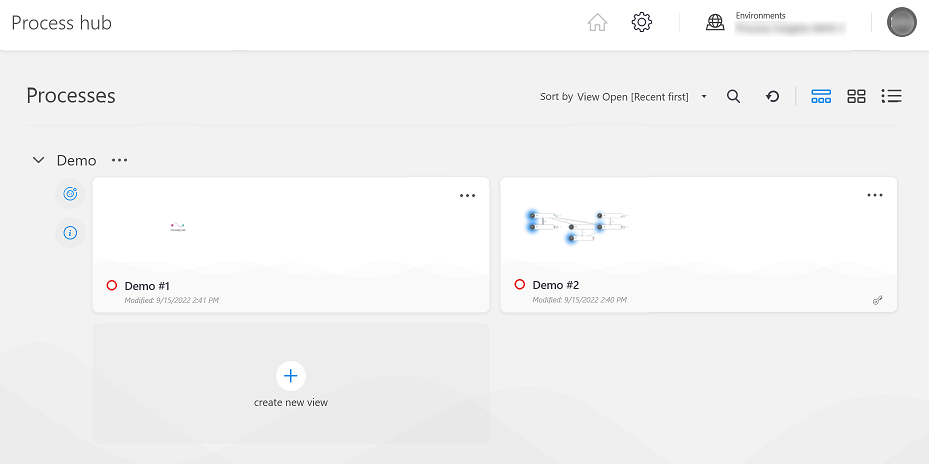
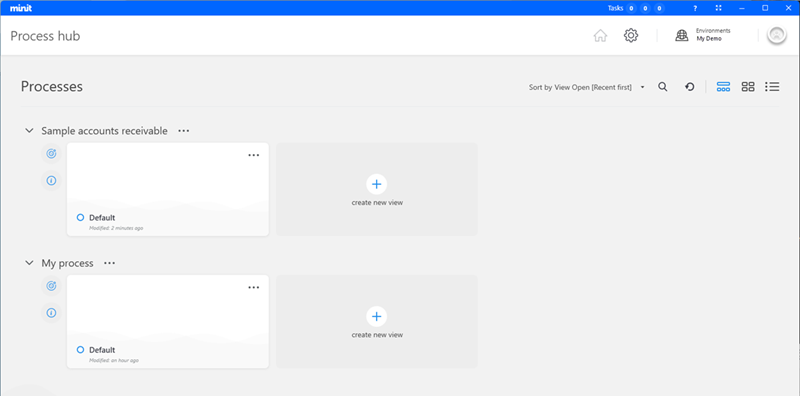
Still editing; created screenshots

diff --git a/articles/minit/case-categorization.md b/articles/minit/case-categorization.md
@@ -1,12 +1,13 @@
 ---
 title: Case categorization (preview)
-description: Learn how to define categories for cases in the Minit desktop application in process advisor.
+description: Learn how to categorize cases in the Minit desktop application for Microsoft Power Automate process advisor.
 author: nijemcevic
 ms.subservice: process-advisor
 ms.topic: conceptuaL
-ms.date: 10/15/2022
+ms.date: 10/27/2022
 ms.author: tatn
 ms.reviewer: angieandrews
+ms.custom: bap-template
 search.app:
 - Flow
 search.audienceType:
@@ -18,49 +19,94 @@ search.audienceType:
 
 [!INCLUDE[cc-beta-prerelease-disclaimer](../includes/cc-beta-prerelease-disclaimer.md)]
 
-Case categorization allows you to define which cases are **Finished**, **Running**, **Stuck**, and **Incompletely imported**. These settings can then be used in any custom metric.
-
-Definition of the case categories can be done in the **Process Context** window in the **Project hub**, using the Process context menu.
+Case categorization allows you to identify which cases are **Finished**, **Running**, **Stuck**, and **Incompletely imported**. You can then use these categories in custom metrics.
 
 Case categories are split into two groups:
+
 - Exclusive (Finished, Running, Stuck)
 - Case flags (Incompletely imported)
 
-In the Exclusive group, a case may belong to only one of the three categories: either it is Finished, Running, or Stuck.
+A case may be placed in only one of the three categories: either it's **Finished**, **Running**, or **Stuck**. The **Incompletely imported** flag can be applied to any case, regardless of its category. For instance, a case may be both **Running** and **Incompletely imported**.
 
-As for Incompletely imported, this category can be combined with any of the above-mentioned categories, for any case.
+## Initialize and create categorization rules
 
-## Initialization and setup
+Categorize cases in the **Process context** page in the Minit project hub.
 
-After initialization, all cases are categorized as **Finished**.
+1. Open the **Process context** page: Either select the icon below the process name, or select (**...**) to the right of the process name and then select **Process context**.
 
-You can set rules for categorization in a simple or advanced mode. Any rule set in simple mode will be translated into advanced mode, however, *switching from advanced mode back to simple mode will reset the settings to the default*.
+    :::image type="content" source="media/PC-overview-1.png" alt-text="Screenshot of the process hub, with the process context icon highlighted.":::
 
-In simple mode, to set finished cases, please select which activities are finishing activities. Cases that end in one of these activities are considered **Finished**.
+1. In the left side panel, select **Case categorization**.
 
-Cases that are not **Finished** are considered **Stuck** or **Running**. To distinguish between Stuck and Running, the user can define when the case is considered Stuck. In simple mode, it can be defined by setting the time difference between the last activity in the case and a set date. This can be selected either manually or by the last timestamp of any event in the dataset.
+1. Select **INITIALIZE**.
 
-Cases that are **neither Finished nor Stuck are considered Running**.
-The case is evaluated in a sequence. If it satisfies the conditions for Finished, it stops there. If not, it will check the condition for Stuck. If that is also false, it will mark the case as Running.
+1. Set rules for categorizing cases as directed in the following sections.
 
-Incompletely imported cases are independent of this sequence, and any case that **does not satisfy** the condition is marked as Incompletely imported.
+    You can set rules in simple or advanced mode. Any rule that you set in simple mode carries over to advanced mode. However, *switching from advanced mode back to simple mode resets the rules to the default*.
 
-The goal of the Incompletely imported category is to mark those cases where the export from the original database split the case in half and only included the latter part of the case.
+1. Select **Save**.
 
-:::image type="content" alt-text="Screenshot of initialization and setup." source="media/image-49.png":::
+### Categorize cases as Finished
 
-## Advanced settings
+Initially, all cases are categorized as **Finished**.
 
-For advanced settings, the logic with evaluation in the sequence is the same. Each category can be set in simple or advanced settings, irrelevant of the settings in other categories.
+Select which activities are finishing activities. Cases that end in one of these activities are considered **Finished**.
 
-## Use case categorization
+In simple mode, select an activity in the **List** tab, or use the search box to search for an activity and then select it. Or, select the **Expression** tab and use the comparison and value boxes and the **Fx** button to define an activity in terms of an expression.
 
-After defining the case categorization, each category has its own function within custom metrics, returning True or False for each case.
+:::image type="content" source="media/case-cat-finished-simple.png" alt-text="Screenshot of categorizing Finished cases in simple mode.":::
 
+In advanced mode, use the filter icons under the **Advanced mode** toggle to add, delete, or import filters. Select the link under **Cases** to specify attributes that define a finishing activity.
 
-```
-ISFINISHED()
-ISSTUCK()
-ISRUNNING()
-ISINCOMPLETEIMPORT()
-```
+:::image type="content" source="media/case-cat-finished-advanced.png" alt-text="Screenshot of categorizing Finished cases in advanced mode.":::
+
+### Categorize cases as Stuck
+
+Cases that aren't **Finished** are either **Stuck** or **Running**. To distinguish between them, you can define when the case is considered **Stuck**.
+
+1. In simple mode, select **Stuck**.
+1. Enter or select a date, or select the last event in the dataset.
+1. Enter a time value.
+
+    :::image type="content" source="media/case-cat-stuck-simple.png" alt-text="Screenshot of categorizing Stuck cases in simple mode.":::
+
+In advanced mode, use the filter icons under the **Advanced mode** toggle to add, delete, or import filters. Select the link under **Cases** to specify attributes that define a **Stuck** case.
+
+:::image type="content" source="media/case-cat-stuck-advanced.png" alt-text="Screenshot of categorizing Stuck cases in advanced mode.":::
+
+If a case isn't **Finished** and the time between the last activity in the case and the date you select exceeds the time value, the case is considered **Stuck**.
+
+### Categorize cases as Running
+
+Cases that aren't **Finished** or **Stuck** are considered **Running**.
+
+The case is evaluated in sequence. If it satisfies the conditions for **Finished**, categorization stops there. If it doesn't, the app checks the conditions for **Stuck**. If those conditions are also false, it categorizes the case as **Running**.
+
+### Categorize cases flagged as Incompletely imported
+
+Cases that don't start where they should are flagged as **Incompletely imported**. This can happen when the export from the original database split the case in half and only included the latter part of the case activities.
+
+:::image type="content" source="media/case-cat-incompletely-imported.png" alt-text="Screenshot of a case with the Incompletely imported flag.":::
+
+Select which activities are starting activities.
+
+In simple mode, select an activity in the **List** tab, or use the search box to search for an activity and then select it. Or, select the **Expression** tab and use the comparison and value boxes and the **Fx** button to define an activity in terms of an expression.
+
+In advanced mode, use the filter icons under the **Advanced mode** toggle to add, delete, or import filters. Select the link under **Cases** to specify attributes that define a starting activity.
+
+After you select one or more starting activities, the **Incompletely imported** flag should clear.
+
+:::image type="content" source="media/case-cat-incompletely-imported-clear.png" alt-text="Screenshot of a case with the Incompletely imported flag cleared after selecting a starting activity.":::
+
+## Use case categories
+
+After you categorize the case, each category has its own function in custom metrics, returning True or False for each case:
+
+- ISFINISHED()
+- ISSTUCK()
+- ISRUNNING()
+- ISINCOMPLETEIMPORT()
+
+## Next steps
+
+[Explore process views](process-explorer.md)

diff --git a/articles/minit/process-hub.md b/articles/minit/process-hub.md
@@ -1,10 +1,10 @@
 ---
 title: Process hub overview (preview)
-description: Learn how to launch the process hub, choose an environment, and understand view tiles in the Minit desktop application for Microsoft Power Automate process advisor. 
+description: Learn how to open the process hub, choose an environment, and understand view tiles in the Minit desktop application for Microsoft Power Automate process advisor. 
 author: nijemcevic
 ms.subservice: process-advisor
 ms.topic: overview
-ms.date: 10/26/2022
+ms.date: 10/27/2022
 ms.author: tatn
 ms.reviewer: angieandrews
 ms.custom: bap-template
@@ -19,15 +19,15 @@ search.audienceType:
 
 [!INCLUDE[cc-beta-prerelease-disclaimer](../includes/cc-beta-prerelease-disclaimer.md)]
 
-The process hub is Minit's home page. It's where you'll find an overview of your processes and process views. It's also where you can analyze your processes.
+The process hub is Minit's home page. It's where you'll find an overview of your processes and views. It's also where you can dig deeper into your processes by creating different views, or ways of analyzing your processes.
 
 ## Open the process hub
 
-Open the Minit desktop app and sign in with your Azure DevOps account. The **Process hub** page opens.
+Open the Minit desktop app and sign in with your work account. The **Process hub** page opens.
 
-The process hub displays each open process and any views associated with them as tiles.
+Although Minit is a desktop application, it's connected to Power Automate through your work account. The process hub lists all the processes you created in process advisor, and displays any views associated with them as tiles.
 
-:::image type="content" alt-text="Screenshot of the process hub, with two Create a new view tiles highlighted." source="media/minit-create-new-view.png":::
+:::image type="content" alt-text="Screenshot of the process hub in the Minit desktop app." source="media/image-27.png":::
 
 ## Select an environment
 
@@ -37,19 +37,36 @@ If the process hub doesn't show the processes you expect, you may need to select
 
 1. Select an environment, or search for and select an environment.
 
-   :::image type="content" alt-text="Screenshot of the environments dropdown menu." source="media/image-5.png":::
+## Organize the process hub
+
+By default, the process hub lists your processes and displays their associated views under them as tiles. You can organize your processes and views in a way that works better for you. Select one of the icons in the upper-right corner of the page.
+
+:::image type="content" alt-text="Screenshot of processes and process views." source="media/image-1.png":::
+
+Legend:
+
+1. Sort views in ascending or descending order. You can sort by name, modification date, or by the most recently opened.
+1. Search for a process or view by name.
+1. Refresh the list of processes from the process advisor. For instance, if you create a process in process advisor, select the refresh icon to update the list in the process hub.
+1. **Processes**: List processes by name, with their associated views displayed as tiles below them. Select the caret to the left of the process name to show or hide the views. This view is the default when you open Minit.
+1. **Views**: Display views as tiles, independent of their associated process.
+1. **List**: List views under their associated process in a table format. Columns display details such as status, last modification date, the person who modified it, the view's privacy status, and a menu with more actions.
 
 ## Explore view tiles
 
-A view is a representation of a single process. It stores all your settings for analyzing the process. To analyze a process from several viewpoints, create multiple views. You can work with a view by yourself or with your colleagues.
+A view represents an analysis of a single process model. It stores all your settings for analyzing the process. To analyze a process from several viewpoints, create multiple views. You can work with a view by yourself or with your colleagues.
+
+The first time you open Minit, if you haven't created any views of your processes, the process hub shows a default view for each process. The **Default** tile is blank until after the first time you select it. After you've opened a view, the tile displays a miniature version of the process map, as in the following example:
+
+:::image type="content" source="media/image-27-a.png" alt-text="Screenshot of a view tile in process hub after it's been opened.":::
 
 A view tile contains the following information:
 
 - The name of the view
 - The view's save state
 - The date and time the view was last modified
-- An indicator of whether the view is private or public
-- The number of comments in the view discussion
+- A key icon if the view is private to you only; no key indicates the view is public
+- The number of comments in the view discussion, if any
 
 A circular icon to the left of the name indicates the view's save state. The following table shows the possible states and their corresponding colors.
 
@@ -60,38 +77,31 @@ A circular icon to the left of the name indicates the view's save state. The fol
 | Orange | There are unsaved changes in the view, and the view isn't updated to the process version. |
 | Violet | The view isn't updated to the process version. |
 
-### Open or create a view
+## Manage views
 
 To open a view, select its tile. If the view isn't updated to the process version, the app displays a warning.
 
-To create a view, select the **Create new view** tile to the right of the process tile. The process opens in a default form, and the app creates a view automatically.
+To delete, rename, or change the privacy of a view, in the **Processes** or **Views** view, select (**...**) in a view tile to open a menu of actions.
 
-## Organize the process hub
+:::image type="content" source="media/image-3-b.png" alt-text="Screenshot of actions for managing a view in the process hub.":::
 
-The process hub displays tiles by default, but you can list your processes and views in a way that works better for you. Select one of the icons in the upper-right corner of the page.
+- **Make private** or **Make public**: Make a public view private or make a private view public.
+- **Rename**: Change the name of a view.
+- **Delete**: Delete a view you no longer need.
 
-:::image type="content" alt-text="Screenshot of processes and process views." source="media/image-1.png":::
+## Manage processes
 
-Legend:
-
-1. Sort the list of processes and views in ascending or descending order. The sorting criterion depends on the display form you selected.
-1. Search for a process or view by name.
-1. Reset the display to the default.
-1. **Processes**: Group processes by name, with views displayed below their associated process. Select the icon next to the process name to expand or collapse a group.
-1. **Views**: Display processes and views as tiles. This view is the default.
-1. **List**: Similar to **Processes** but without the tiles. Views are listed with their associated processes, but with more details.
-
-## Manage your processes
-
-Select (**...**) next to a process name to open a menu of actions.
+In the **Processes** view, select (**...**) next to a process name to open a menu of actions. The menu items **Process information** and **Process context** correspond to the icons below the process name, as shown in the following screenshot:
 
 :::image type="content" alt-text="Screenshot of actions for managing a process in the process hub." source="media/image-3.png":::
 
-- **Create new view**: Open the process in its original state so that you can change its view settings and save them as a new view.
+- **Create new view**: Corresponds to the **create new view** tile. Open the process in its original state so that you can change the view settings and save them as a new view.
 
-- **Process configuration**: Display information about the process.
+- **Process information**: Display information about the attributes of the process model data and its refresh history.
 
-- **Process context**: Define settings that are available in all process views.
+    :::image type="content" source="media/image-3-a.png" alt-text="Screenshot of process information in the Minit process hub.":::
+
+- **Process context**: Display, create, and change custom metrics, map hierarchies, and other view settings.
 
 ## Next steps
 

diff --git a/articles/minit/process-context.md b/articles/minit/process-context.md
@@ -1,12 +1,13 @@
 ---
 title: Process context (preview)
-description: Learn about analytical definitions and settings in the Minit desktop application in process advisor.
+description: Learn about the process settings you can change in the Minit desktop application for Microsoft Power Automate process advisor.
 author: nijemcevic
 ms.subservice: process-advisor
-ms.topic: conceptual
-ms.date: 10/15/2022
+ms.topic: overview
+ms.date: 10/27/2022
 ms.author: tatn
 ms.reviewer: angieandrews
+ms.custom: bap-template
 search.app:
 - Flow
 search.audienceType:
@@ -18,22 +19,22 @@ search.audienceType:
 
 [!INCLUDE[cc-beta-prerelease-disclaimer](../includes/cc-beta-prerelease-disclaimer.md)]
 
-The purpose of Process context is to store the analytical definitions and settings which are valid over the process data and thus are available for sharing across all process views. Definitions like custom metrics are named and can be easily used in a view, without the need to re-create it in single views.
+The **Process context** page is where you can create and manage settings that you want to apply to the views you create for a process.
+
+To open the process context, either select the icon below the process name, or select (**...**) to the right of the process name and then select **Process context**.
+
+:::image type="content" source="media/PC-overview-1.png" alt-text="Screenshot of the process hub, with the process context icon highlighted.":::
+
+The **Process context** page contains the following subsections:
+
+- **Custom metrics**: Create and manage [custom metrics](custom-metrics.md).
+
+- **Map hierarchies**: Create and manage [hierarchies](hierarchical-process-mining.md).
+
+- **Business rules**: Create and manage [business rules](business-rules.md).
+
+- **Case categorization**: [Categorize cases](case-categorization.md) as Running, Finished, or Stuck.
+
+- **General settings**: Select the [default **Activity label**](view-settings.md).
 
 :::image type="content" alt-text="Screenshot of the Custom metrics tab." source="media/PC-overview.png":::
-
-Process context consists of the following sub-sections:
-
-- **Custom metrics:** This allows you to manage custom metrics available in the process and also to create new ones. For more information about custom metrics, see [Custom Metrics](custom-metrics.md).
-
-- **Map hierarchies:** Manage hierarchies. For more information about hierarchies, see [Hierarchical Process Mining](hierarchical-process-mining.md).
-
-- **Business rules:** Manage Business rules, for more information about business rules, see [Business rules](business-rules.md).
-
-- **Case categorization**: Manage case categorization, for more information, see [Case categorization](case-categorization.md).
-
-- **General settings:** Can be used to select the default **Activity label**. To learn more about activity labels, go to [View Settings](view-settings.md).
-
-
-
-

diff --git a/articles/minit/how-to-start-with-minit-desktop-application.md b/articles/minit/how-to-start-with-minit-desktop-application.md
@@ -4,7 +4,7 @@ description: Learn how to install the Minit desktop application in Microsoft Pow
 author: nijemcevic
 ms.subservice: process-advisor
 ms.topic: how-to
-ms.date: 10/26/2022
+ms.date: 10/27/2022
 ms.author: tatn
 ms.reviewer: angieandrews
 ms.custom: bap-template
@@ -25,15 +25,21 @@ Before you can start using Minit, you need to install the Minit desktop applicat
 
 1. In the left side panel, select **Process advisor**.
 
-1. Under **Record, analyze, and refine commonly performed processes**, select **Download Minit**.
+1. At the top of the process advisor page, select **Install Minit**.
 
-   :::image type="content" alt-text="Screenshot of the Download Minit button." source="media/minit-install-a1.png":::
+   :::image type="content" alt-text="Screenshot of the Install Minit button on the process advisor page." source="media/minit-install-a1.png":::
 
-1. The installation prompt may vary, depending on your system configuration. If the prompt is **Open this file?**, select **Open**. If the prompt is **Do you want to install this application?**, select **Install**.
+1. Open the installer file when prompted, and then select **Install** to run the installer when prompted.
 
-   Allow a few minutes for the installer to run.
+   Allow a few minutes for the installer to download and install the application files.
 
-1. Sign in to Minit with your Azure DevOps account.
+1. When the Minit welcome screen opens, select **NEXT STEP** to start the guided configuration wizard.
+
+1. By default, Minit will store process mining data in a new **Minit** folder in the **Documents** folder in your OneDrive. Change the location if necessary, and then select **NEXT STEP**.
+
+1. Select **APPLY AND MINE!** to finish the wizard.
+
+1. Sign in to Minit with your work account.
 
 1. Start process mining from the **Process hub**.
 
